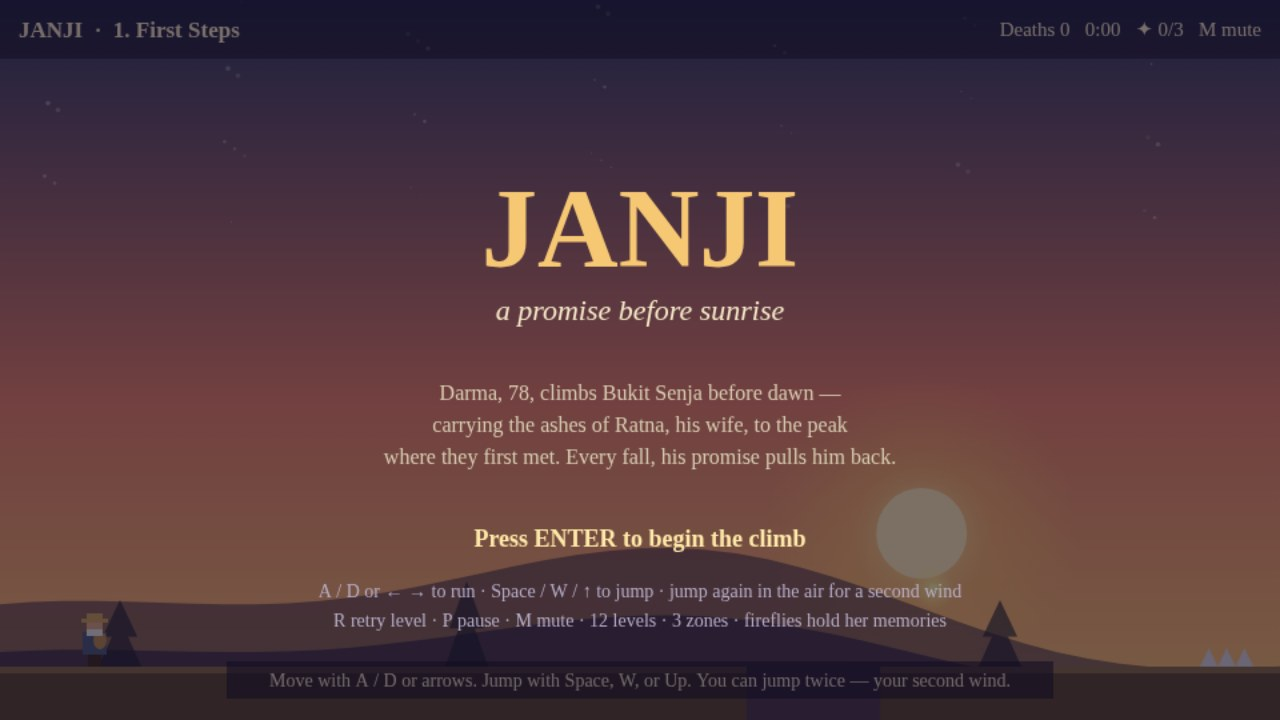
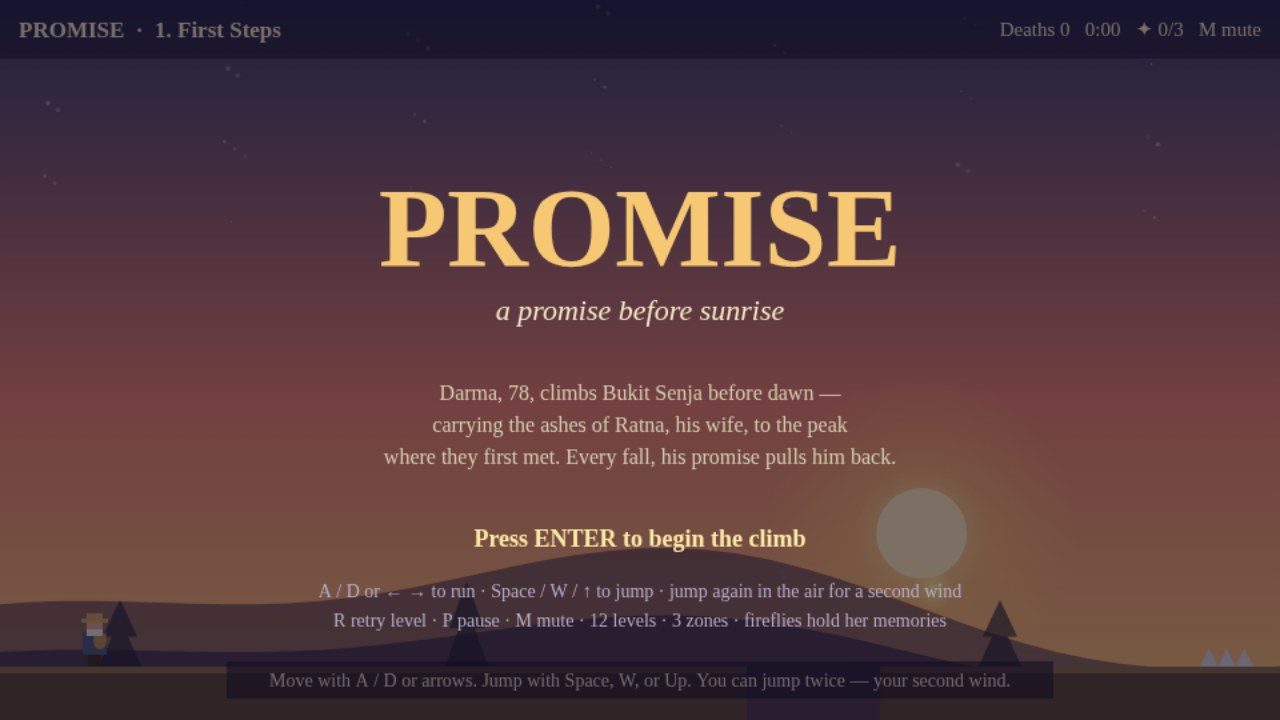
Rename JANJI -> PROMISE (user correction)
Title is PROMISE everywhere: in-game title screen, HUD, HTML
title, README, code comments, save key, test hooks, screenshots
re-taken, dossier rebuilt. Story, characters, levels unchanged.

Changed region(s): [[0.2812, 0.2444, 0.7188, 0.3972], [0.0, 0.0306, 0.2188, 0.0611]]

diff --git a/game/src/main.js b/game/src/main.js
@@ -1,4 +1,4 @@
-// JANJI — main: the game loop, screens, story, and save.
+// PROMISE — main: the game loop, screens, story, and save.
 // Modes: title → card (zone story) → play ⇄ dead → levelClear → …
 // → ending (after level 12) → title. Progress (unlocked level, total
 // deaths, best clear time) lives in localStorage; the climb itself is
@@ -11,7 +11,7 @@ import { createRun, step, resetToCheckpoint } from './physics.js';
 import { render } from './render.js';
 import { applyShot } from './shots.js';
 
-const SAVE_KEY = 'janji-save-v1';
+const SAVE_KEY = 'promise-save-v1';
 const canvas = document.getElementById('game');
 const ctx = canvas.getContext('2d');
 canvas.width = VIEW_W;
@@ -221,7 +221,7 @@ function drawOverlay() {
     ctx.textAlign = 'center';
     ctx.fillStyle = '#f7c873';
     ctx.font = 'bold 84px Georgia, serif';
-    ctx.fillText('JANJI', VIEW_W / 2, 200);
+    ctx.fillText('PROMISE', VIEW_W / 2, 200);
     ctx.fillStyle = '#f5e9c8';
     ctx.font = 'italic 22px Georgia, serif';
     ctx.fillText('a promise before sunrise', VIEW_W / 2, 240);
@@ -373,7 +373,7 @@ function frame(now) {
 }
 
 // --- test + screenshot hooks (also the develop-web-game contract) ---
-window.__JANJI__ = {
+window.__PROMISE__ = {
   game, startLevel, startRun, LEVELS,
   setMode(m) { game.mode = m; },
   teleport(x, y) { game.run.px = x; game.run.py = y; game.run.vx = 0; game.run.vy = 0; },
@@ -398,5 +398,5 @@ window.render_game_to_text = () => JSON.stringify({
 
 startLevel(0);
 game.mode = 'title'; // the climb starts at the title screen, not the card
-applyShot(window.__JANJI__);
+applyShot(window.__PROMISE__);
 requestAnimationFrame(frame);

diff --git a/game/index.html b/game/index.html
@@ -3,7 +3,7 @@
 <head>
 <meta charset="utf-8">
 <meta name="viewport" content="width=device-width, initial-scale=1">
-<title>JANJI — a promise before sunrise</title>
+<title>PROMISE — a promise before sunrise</title>
 <style>
   html, body { margin: 0; height: 100%; overflow: hidden; background: #14102a; }
   #game { position: fixed; inset: 0; width: 100%; height: 100%; display: block; touch-action: none; }
@@ -11,7 +11,7 @@
 </style>
 </head>
 <body>
-<canvas id="game" aria-label="JANJI: help Darma, 78, climb Bukit Senja before sunrise carrying his wife Ratna's ashes"></canvas>
+<canvas id="game" aria-label="PROMISE: help Darma, 78, climb Bukit Senja before sunrise carrying his wife Ratna's ashes"></canvas>
 <p id="status" role="status" aria-live="polite"></p>
 <script type="module" src="./src/main.js"></script>
 </body>

diff --git a/game/src/render.js b/game/src/render.js
@@ -1,4 +1,4 @@
-// JANJI — render: everything is drawn in code, no image assets.
+// PROMISE — render: everything is drawn in code, no image assets.
 // Dawn palette per zone: deep indigo sky melting into gold at the
 // horizon, layered hill silhouettes for parallax, a low sun that climbs
 // higher with each zone. Darma is an old fisherman: straw hat, grey
@@ -275,7 +275,7 @@ export function render(ctx, game) {
   ctx.fillStyle = '#f5e9c8';
   ctx.font = 'bold 17px Georgia, serif';
   ctx.textAlign = 'left';
-  ctx.fillText(`JANJI  ·  ${levelIndex + 1}. ${game.levelName}`, 14, 28);
+  ctx.fillText(`PROMISE  ·  ${levelIndex + 1}. ${game.levelName}`, 14, 28);
   ctx.textAlign = 'right';
   ctx.font = '15px Georgia, serif';
   const mm = Math.floor(run.time / 60);

diff --git a/game/src/config.js b/game/src/config.js
@@ -1,4 +1,4 @@
-// JANJI — config: tuning, story text, and shared constants.
+// PROMISE — config: tuning, story text, and shared constants.
 // All values here are the single source of truth for physics, story,
 // and HUD text. Levels read the physics numbers; the dossier checker
 // in tools/ reads them too, so a tuning change stays consistent.
@@ -96,4 +96,4 @@ export const MEMORY_LINES = [
 
 export const ENDING_CARD =
   'The sun rises. The ashes scatter on the wind. Darma sits down beside the memory of her \u2014 and finally, peacefully, rests. The promise is kept.';
-export const ENDING_SUB = 'JANJI \u2014 a promise before sunrise';
+export const ENDING_SUB = 'PROMISE \u2014 a promise before sunrise';

diff --git a/game/src/shots.js b/game/src/shots.js
@@ -1,4 +1,4 @@
-// JANJI — shots: deterministic scene setups for the entry screenshots.
+// PROMISE — shots: deterministic scene setups for the entry screenshots.
 // ?shot=start → title screen. ?shot=play → mid-climb in the dusk forest
 // (level 5, wind, deaths on the counter). ?shot=dead → Ratna's line on
 // the death screen. ?shot=end → the sunrise ending. No other effect:

diff --git a/game/src/audio.js b/game/src/audio.js
@@ -1,4 +1,4 @@
-// JANJI — audio: everything is synthesized with WebAudio, no files.
+// PROMISE — audio: everything is synthesized with WebAudio, no files.
 // A soft pentatonic pad drifts under the climb; jumps, deaths,
 // checkpoints, fireflies and the sunrise each get their own small sound.
 // Audio starts on the first user gesture (browser autoplay rule).

diff --git a/game/src/levels.js b/game/src/levels.js
@@ -1,4 +1,4 @@
-// JANJI — levels: 12 short rage-platformer levels in 3 zones.
+// PROMISE — levels: 12 short rage-platformer levels in 3 zones.
 // Coordinates are pixels. Ground top is y=500; the canvas is 540 tall.
 // Jump envelope (from config.js): single jump rises ~108px and crosses
 // ~180px at full run; double jump rises ~190px and crosses ~300px.

diff --git a/game/src/physics.js b/game/src/physics.js
@@ -1,4 +1,4 @@
-// JANJI — physics: the player controller and every hazard.
+// PROMISE — physics: the player controller and every hazard.
 // Pure movement math over level data (imports only config.js), so the
 // same step can be driven by the browser loop, the test hooks, and the
 // headless reachability checker. No DOM, no audio, no drawing here.

diff --git a/game/src/input.js b/game/src/input.js
@@ -1,4 +1,4 @@
-// JANJI — input: keyboard state with edge detection.
+// PROMISE — input: keyboard state with edge detection.
 // Keys: A/D or Left/Right to move, Space/W/Up to jump (held for higher
 // jumps, released to cut), R to retry the level, M to mute, Enter to
 // confirm, Esc/P to pause. Touch: left/right halves move, tap jumps.

diff --git a/README.md b/README.md
@@ -1,4 +1,4 @@
-# JANJI — a promise before sunrise
+# PROMISE — a promise before sunrise
 
 A 2D rage platformer about an old fisherman keeping a promise.
 
